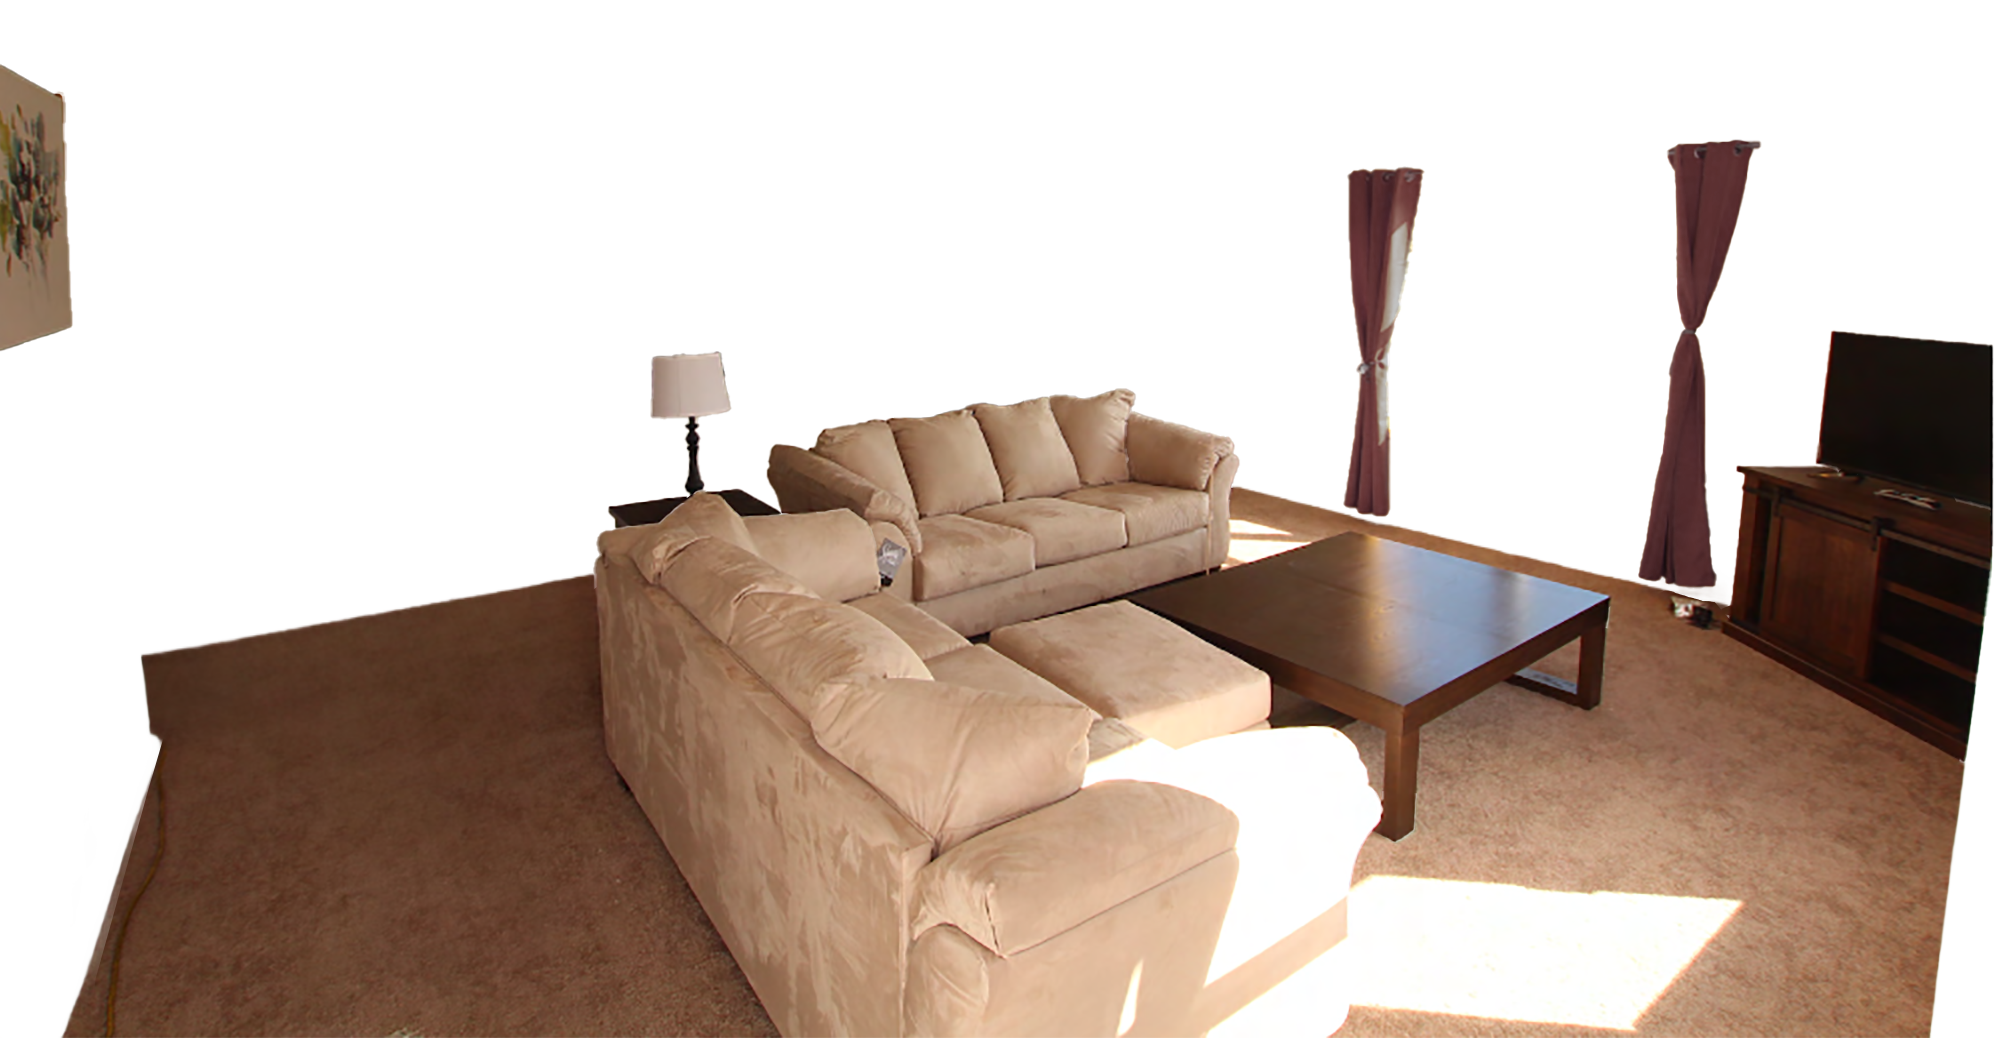
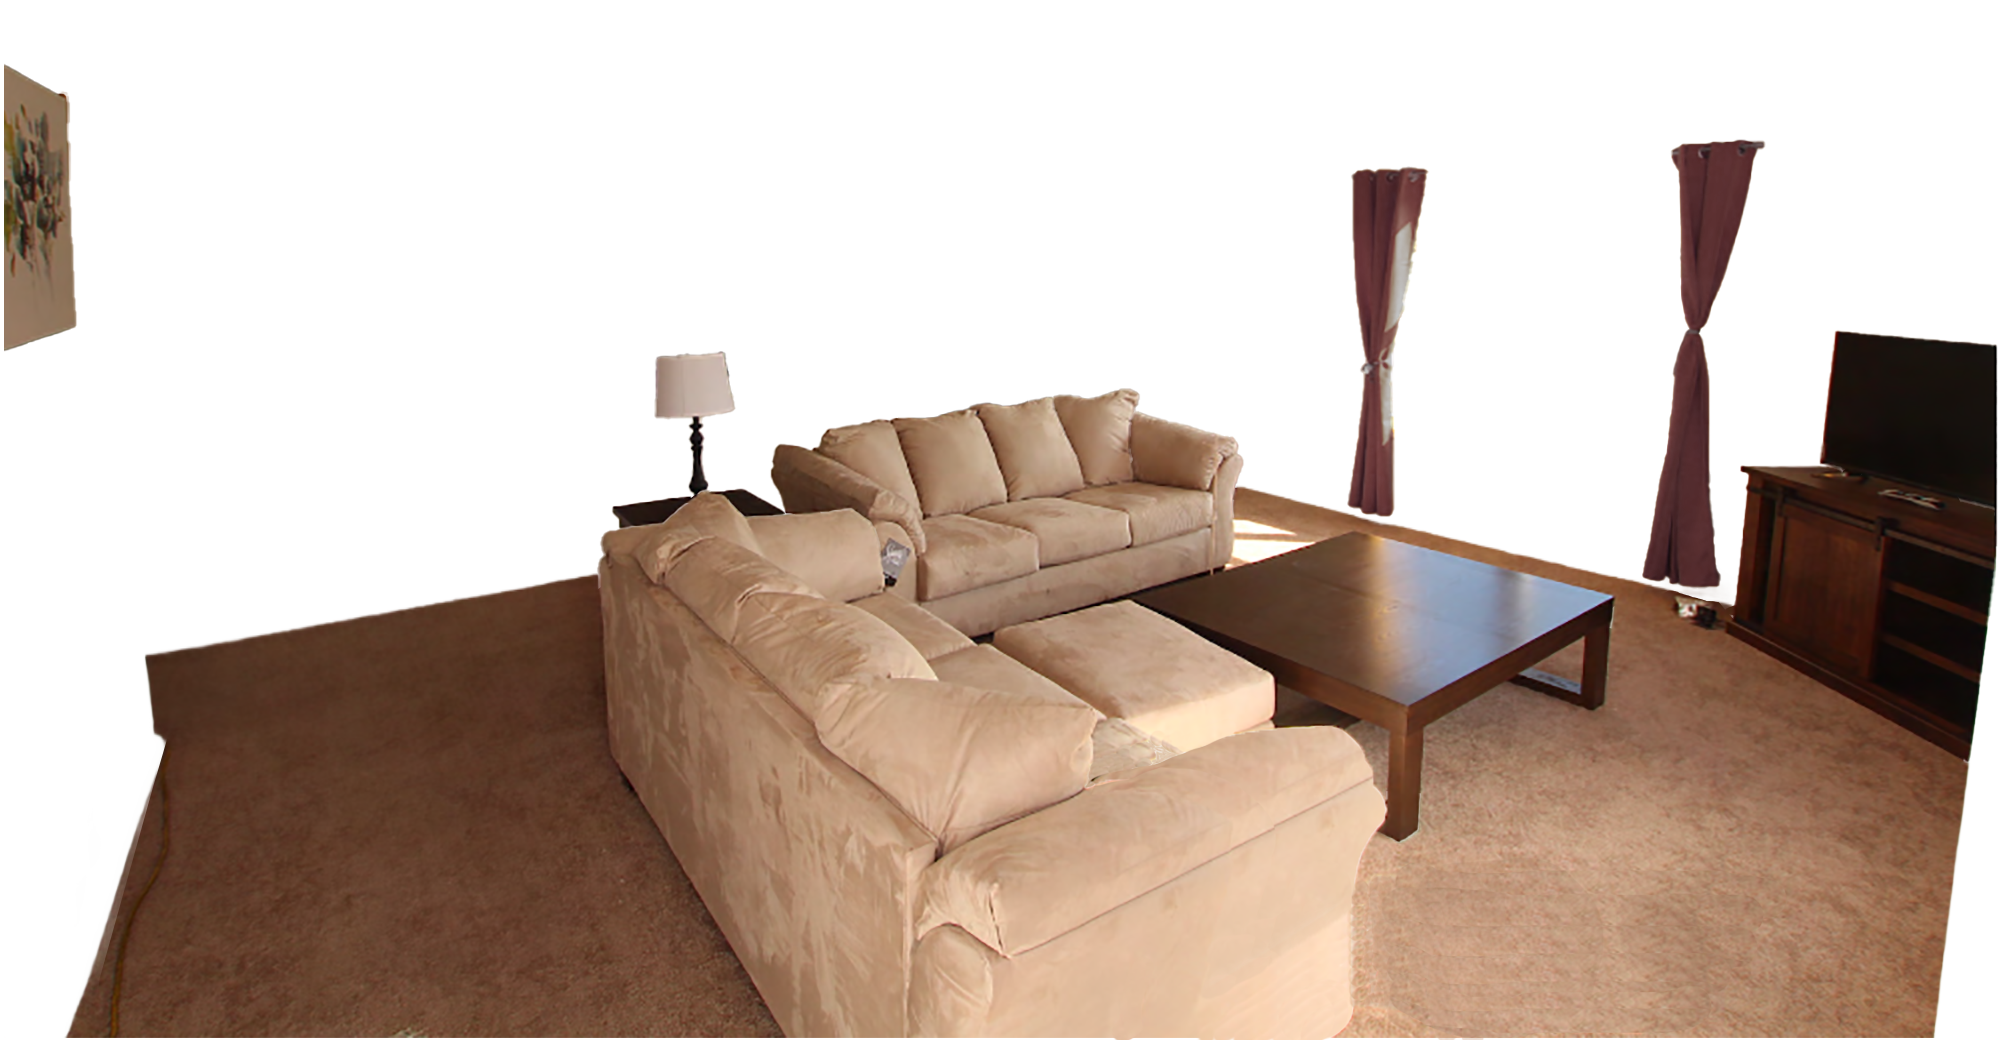
Removed some visual clutter (sunbeam) from living room pic

diff --git a/index.html b/index.html
@@ -50,7 +50,7 @@
         <span class = "tooltip">Bob Bourgeois<span class="tooltipcontent"><span class="tooltiptext" >Bob is a former District Fire Chief (FF 40 yrs),  former LLC owner (public safety case studies), BSME Columbia Univ</span></span></span></span><br>
         With input from
         <span class = "tooltip">Joe Maloney<span class="tooltipcontent"><span class="tooltiptext" >Joe is a former District Fire Chief (FF 32 yrs, 19 as District Chief),  </span></span></span><br>
-	  <span style="font-size:.5rem;line-height:.2">1st draft 13Apr21&nbsp;&nbsp;&nbsp; Latest rev 09Jun24<br>Feedback/Qs roomfiresetc@gmail.com</span></div>
+	  <span style="font-size:.5rem;line-height:.2">1st draft 13Apr21&nbsp;&nbsp;&nbsp; Latest rev 10Jun24<br>Feedback/Qs roomfiresetc@gmail.com</span></div>
 	  
 	
 </header>	
